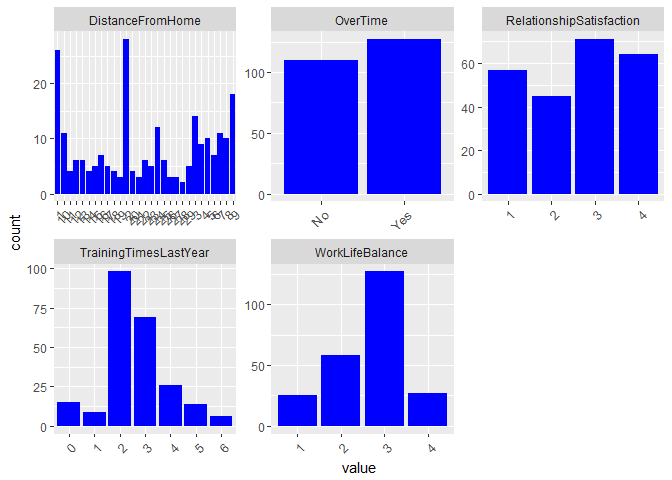
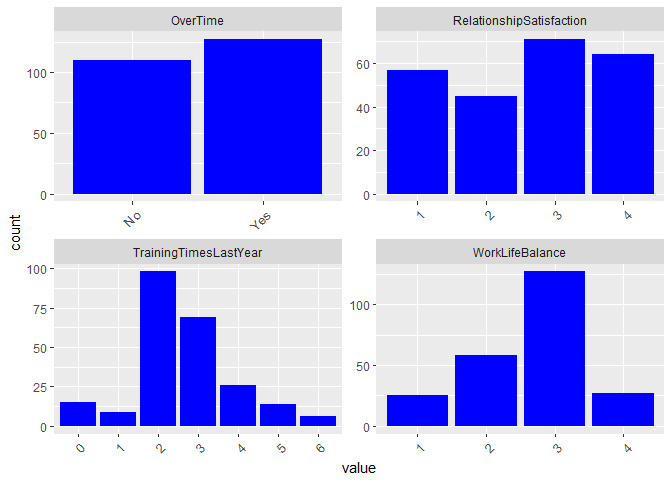
Modify Univariate by stress group

diff --git a/CaseStudy2.md b/CaseStudy2.md
@@ -129,7 +129,7 @@ Univariate 4 - attrition by stress factors
 ------------------------------------------
 
 ``` r
-uni_4_cols <- c("DistanceFromHome", "WorkLifeBalance", "RelationshipSatisfaction", "OverTime", "TrainingTimesLastYear")
+uni_4_cols <- c("WorkLifeBalance", "RelationshipSatisfaction", "OverTime", "TrainingTimesLastYear")
 attrition_data[uni_4_cols] %>%
  gather() %>%     
  ggplot(aes(x = value)) +                     
@@ -142,6 +142,14 @@ attrition_data[uni_4_cols] %>%
     they will be dropped
 
 ![](CaseStudy2_files/figure-markdown_github/unnamed-chunk-5-1.png)
+
+``` r
+qplot(attrition_data$DistanceFromHome, geom="histogram") 
+```
+
+    `stat_bin()` using `bins = 30`. Pick better value with `binwidth`.
+
+![](CaseStudy2_files/figure-markdown_github/unnamed-chunk-5-2.png)
 
 Quick glance at attrition data by department
 --------------------------------------------
